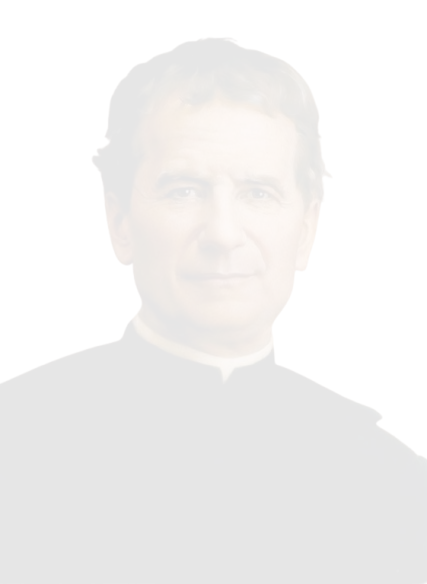
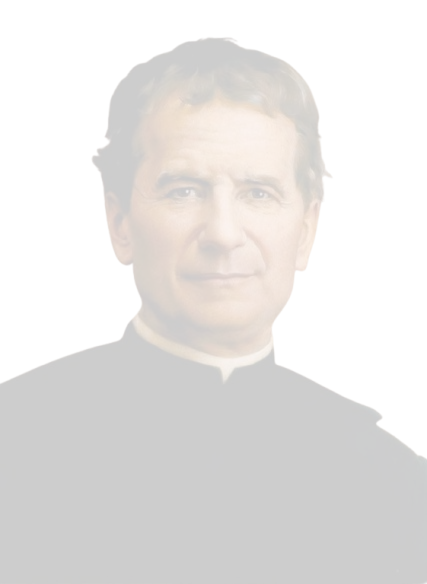
fix: marca al 20% realmente detras del texto en impresion

diff --git a/assets/css/style.css b/assets/css/style.css
@@ -757,12 +757,23 @@ body {
     page-break-inside: auto !important;
   }
 
+  /* Marca realmente de fondo: celdas transparentes + retrato detrás del texto.
+     El encabezado oscuro se mantiene legible por encima. */
+  .print-table td {
+    background: transparent !important;
+  }
+
+  html, body {
+    background: transparent !important;
+  }
+
   .print-foot {
     display: none !important;
   }
 
   /* Watermark as real <img> content (print only): backgrounds are dropped by print engines.
-     La imagen ya viene pre-aclarada al ~10%: NO aplicar opacity aquí o se vuelve invisible. */
+     La imagen ya viene pre-aclarada (~20%): NO aplicar opacity aquí o se vuelve invisible.
+     z-index negativo = realmente detrás del texto (requiere celdas y fondo transparentes). */
   .print-watermark {
     display: block !important;
     position: fixed !important;
@@ -772,7 +783,7 @@ body {
     width: 400px !important;
     max-width: 70% !important;
     opacity: 1 !important;
-    z-index: 9999 !important;
+    z-index: -1 !important;
     pointer-events: none !important;
     -webkit-print-color-adjust: exact !important;
     print-color-adjust: exact !important;
